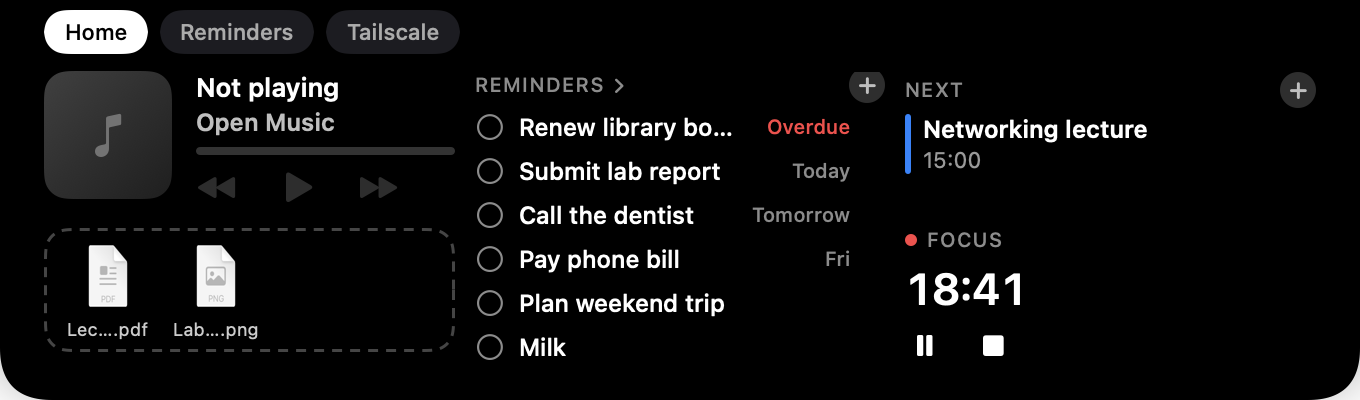
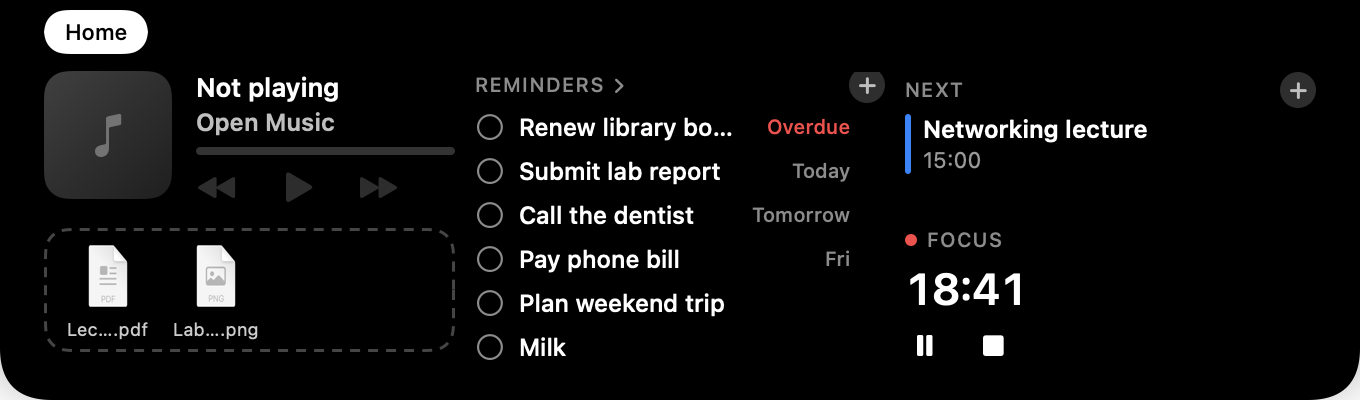
README: Reminders heading without a full-list tab, screenshot with the new one-tab start

Changed region(s): [[0.0926, 0.0, 0.3397, 0.15]]

diff --git a/README.md b/README.md
@@ -24,7 +24,7 @@ If you'd rather build it yourself, see [Build](#build).
 
 - **Music:** the song playing in Apple Music or Spotify, with its cover, a progress bar, and previous, play/pause and next. Drag the white dot on the progress bar, or click anywhere on the bar, to jump to that point in the song. If you use both, it shows whichever one is playing. When both are paused it stays on the one you used last. Notchpad never starts either app by itself. If the app is closed, there's an "Open Music" or "Open Spotify" button.
 - **Shelf:** drag files onto the notch and they wait there until you drag them out somewhere else. The shelf keeps a link to the original file (no copies) and is still there after a restart. When you drag a file towards the closed notch, the panel opens by itself. Hover a file and click the blue AirDrop icon to send it to your iPhone or another Mac, or right-click the panel for "AirDrop all files". If the tab on screen has no Shelf when you drop a file, the panel switches to a tab that has one.
-- **Reminders:** every reminder from every list, overdue and soonest first and ones without a date at the end. Scroll the list to see them all. Tick the circle to complete one. To delete one without completing it, hover it and click the trash icon, then click Delete. Click the + to add a reminder, or click a reminder to change its title, due date, time or list, or to delete it. In the editor, Return saves and Esc cancels. Click the Reminders heading to jump to the tab with the full list. The Reminders app doesn't need to be open.
+- **Reminders:** every reminder from every list, overdue and soonest first and ones without a date at the end. Scroll the list to see them all. Tick the circle to complete one. To delete one without completing it, hover it and click the trash icon, then click Delete. Click the + to add a reminder, or click a reminder to change its title, due date, time or list, or to delete it. In the editor, Return saves and Esc cancels. Click the Reminders heading to jump to a tab with the full list, or to the Reminders app if you don't have one. The Reminders app doesn't need to be open.
 - **Next:** your next event today, from every calendar the Calendar app shows. At Medium size it lists your next three events today instead of one. Click the + to add an event, or click an event to change its title, time or calendar, or to delete it. To delete an event quickly, hover it and click the trash icon, then click Delete. For a repeating event, only that one occurrence changes. Events from calendars you can't change (subscriptions, birthdays) open read-only, with a button to open them in Calendar.
 - **Music on the closed notch:** while a song plays in Apple Music or Spotify, its cover sits left of the closed notch and four small bars move on the right. Pause the song and both disappear. Hover either side to open the panel. If you don't want it, right-click the open panel and untick "Show music on closed notch". Notchpad then fetches nothing extra while the panel is closed.
 - **Focus timer:** pick a length with − and + (5 to 180 minutes, in 5-minute steps), or click the number and type one (for example 40, 1:30 or 1h15), then click Start. Notchpad remembers the length you used last. When you close the panel, the countdown stays visible on a small black strip left of the notch (red dot for focus, green for a break). When the time is up you hear a sound and get a notification, then you can start a 5 minute break or go again.
